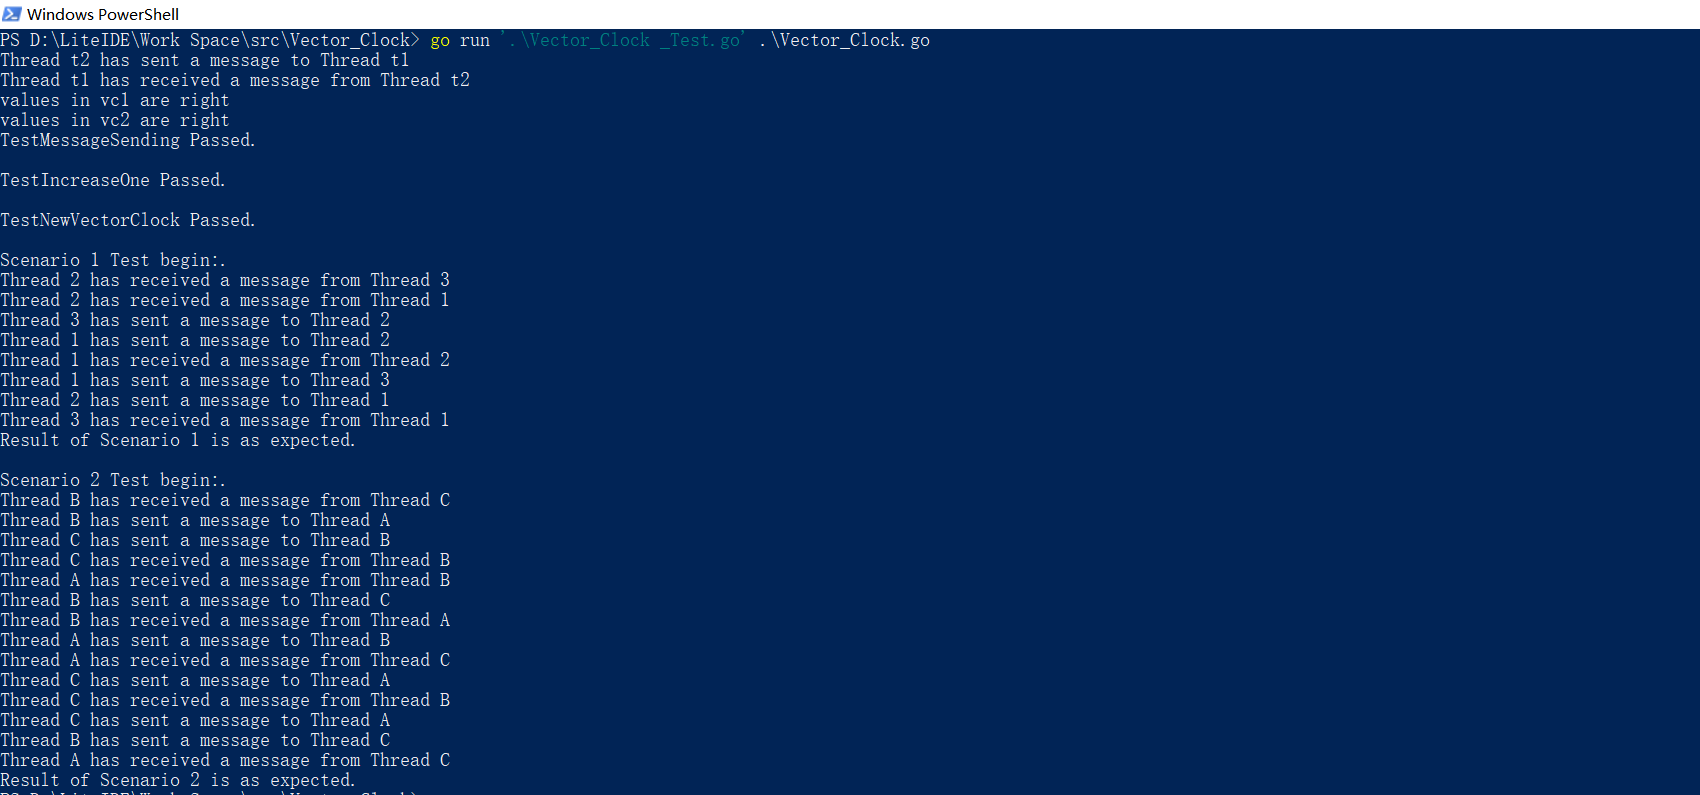
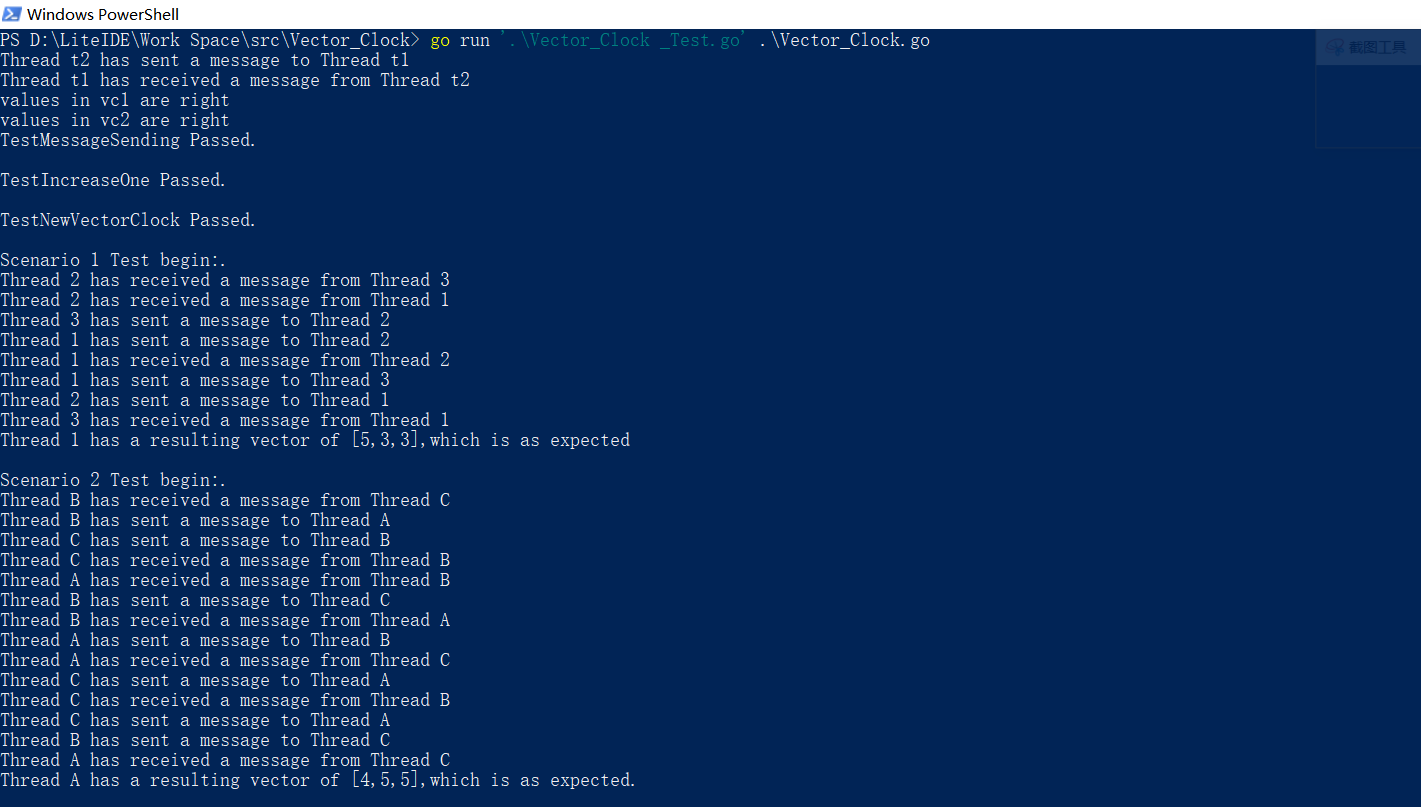
Add files via upload

Changed region(s): [[0.0, 0.2113, 0.4335, 1.0], [0.0, 0.0, 0.6502, 0.1811], [0.2167, 0.9962, 0.2477, 1.0]]

diff --git a/Assignment 2/Vector Clock/Vector_Clock _Test.go b/Assignment 2/Vector Clock/Vector_Clock _Test.go
@@ -130,7 +130,7 @@ func Scenario_1() {
 	if vc3.vector[threads[0]] != 5 || vc3.vector[threads[1]] != 3 || vc3.vector[threads[2]] != 3 {
 		fmt.Printf("Incorrect values: Expected 5,3,3 but got %d,%d,%d\n\n", vc1.vector[threads[0]], vc1.vector[threads[1]], vc1.vector[threads[2]])
 	} else {
-		fmt.Printf("Result of Scenario 1 is as expected.\n\n")
+		fmt.Printf("Thread 1 has a resulting vector of [5,3,3],which is as expected\n\n")
 	}
 
 }
@@ -179,7 +179,7 @@ func Scenario_2() {
 	if vc1.vector[threads[0]] != 4 || vc1.vector[threads[1]] != 5 || vc1.vector[threads[2]] != 5 {
 		fmt.Printf("Incorrect values: Expected 4,5,5 but got %d,%d,%d\n", vc1.vector[threads[0]], vc1.vector[threads[1]], vc1.vector[threads[2]])
 	} else {
-		fmt.Printf("Result of Scenario 2 is as expected.\n")
+		fmt.Printf("Thread A has a resulting vector of [4,5,5],which is as expected.\n\n")
 	}
 
 }
